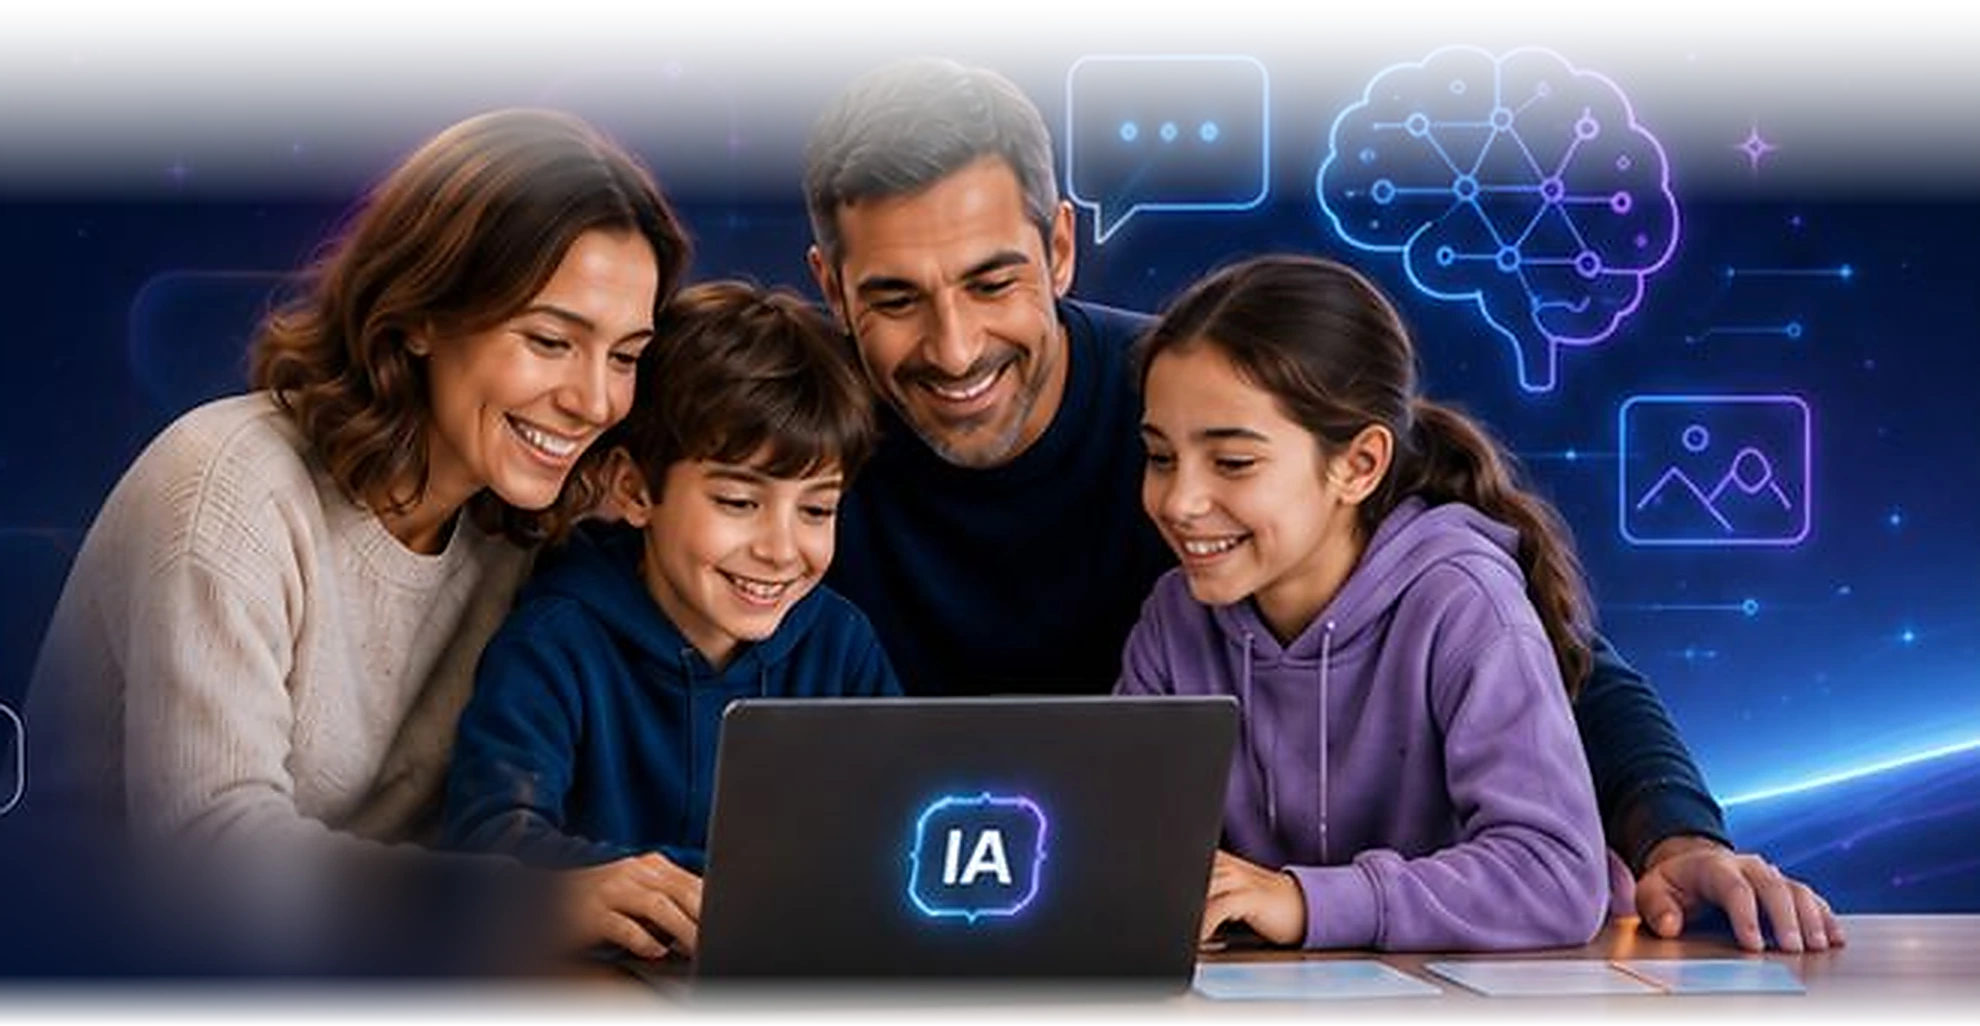
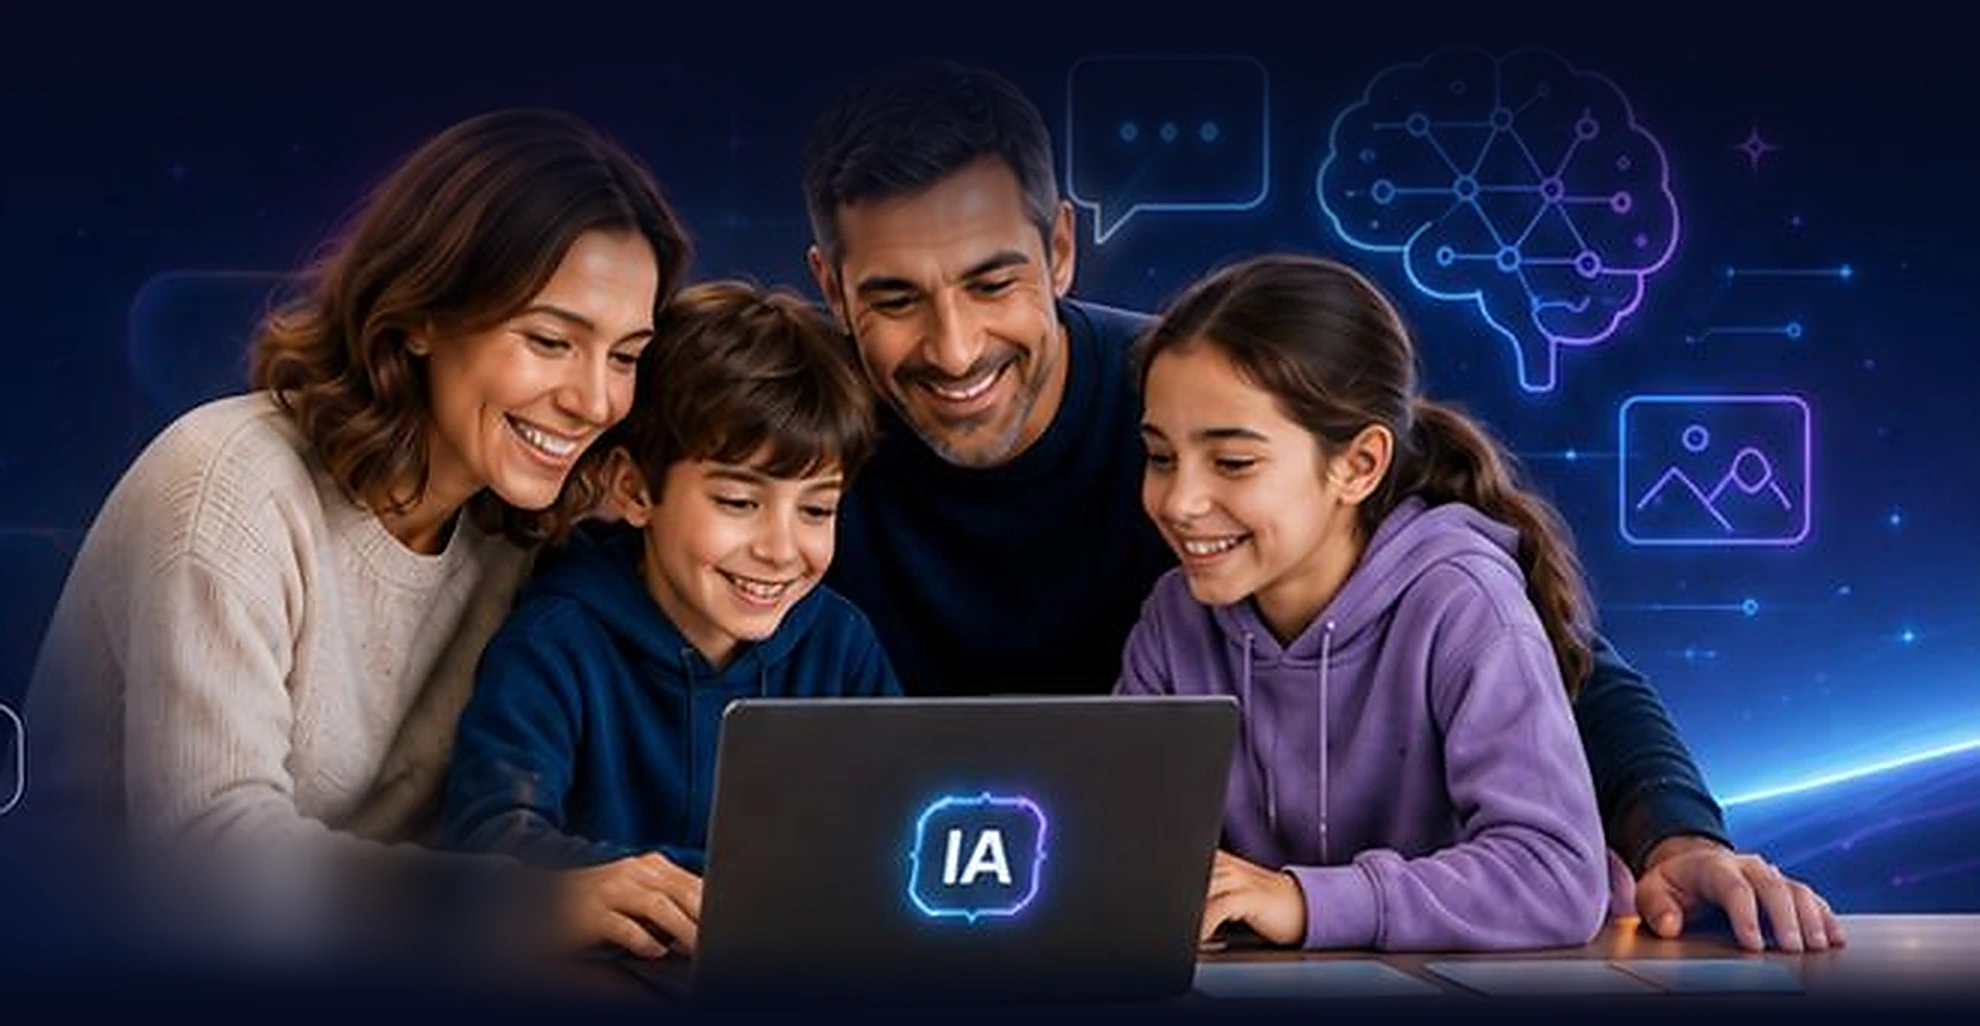
Supprime la marche en haut des visuels de hero
Deux causes cumulées, aucune n'était celle traitée jusqu'ici.

D'abord le format : le fondu vivait dans le canal alpha des images, mais
Next sert ces fichiers en JPEG selon l'en-tête Accept du client. L'alpha
était alors aplati et le bord redevenait franc. Le fondu est désormais
gravé en RGB vers #060a1f, la couleur exacte du fond de section, donc
indépendant du format servi.

Ensuite l'empilement, qui était la cause principale : le halo coloré de
la section se trouvait derrière l'image. Celle-ci le masquait net dès son
bord supérieur, d'où une chute de luminosité de 23 sur un pixel. Le halo
passe maintenant au-dessus du visuel, en mix-blend-screen : il continue
par-dessus la photo et le raccord disparaît.

Mesuré sur la page : le plus fort saut de luminance dans la zone de
raccord tombe de 23 à 7, et ce résidu vient du contenu de la photo.
Appliqué aux trois heros, vérifié en desktop et en mobile.

Changed region(s): [[0.0, 0.0, 1.0, 0.2807], [0.0, 0.9045, 1.0, 1.0]]

diff --git a/src/components/home/Hero.tsx b/src/components/home/Hero.tsx
@@ -27,10 +27,6 @@ export function Hero() {
 
   return (
     <section className="relative isolate overflow-hidden bg-navy-950 pt-28 text-white sm:pt-32 lg:min-h-[560px] lg:pb-14">
-      <div
-        aria-hidden
-        className="pointer-events-none absolute inset-0 hero-glow animate-drift"
-      />
 
       {/*
         Un seul visuel à toutes les tailles : ancré en bas à droite, il déborde
@@ -54,6 +50,11 @@ export function Hero() {
           className="object-contain object-right-bottom"
         />
       </motion.div>
+
+      <div
+        aria-hidden
+        className="pointer-events-none absolute inset-0 hero-glow animate-drift mix-blend-screen"
+      />
 
       <Container className="relative">
         <div className="lg:max-w-[46%]">

diff --git a/src/components/enfants/HeroEnfants.tsx b/src/components/enfants/HeroEnfants.tsx
@@ -26,10 +26,6 @@ export function HeroEnfants() {
 
   return (
     <section className="relative isolate overflow-hidden bg-navy-950 pt-28 text-white sm:pt-32 lg:min-h-[540px] lg:pb-14">
-      <div
-        aria-hidden
-        className="pointer-events-none absolute inset-0 hero-glow animate-drift"
-      />
 
       <motion.div
         aria-hidden
@@ -47,6 +43,11 @@ export function HeroEnfants() {
           className="object-contain object-right-bottom"
         />
       </motion.div>
+
+      <div
+        aria-hidden
+        className="pointer-events-none absolute inset-0 hero-glow animate-drift mix-blend-screen"
+      />
 
       <Container className="relative">
         <div className="lg:max-w-[46%]">

diff --git a/src/components/stages/HeroStages.tsx b/src/components/stages/HeroStages.tsx
@@ -25,10 +25,6 @@ export function HeroStages() {
 
   return (
     <section className="relative isolate overflow-hidden bg-navy-950 pt-28 text-white sm:pt-32 lg:min-h-[540px] lg:pb-14">
-      <div
-        aria-hidden
-        className="pointer-events-none absolute inset-0 hero-glow animate-drift"
-      />
 
       <motion.div
         aria-hidden
@@ -46,6 +42,11 @@ export function HeroStages() {
           className="object-contain object-right-bottom"
         />
       </motion.div>
+
+      <div
+        aria-hidden
+        className="pointer-events-none absolute inset-0 hero-glow animate-drift mix-blend-screen"
+      />
 
       <Container className="relative">
         <div className="lg:max-w-[46%]">
